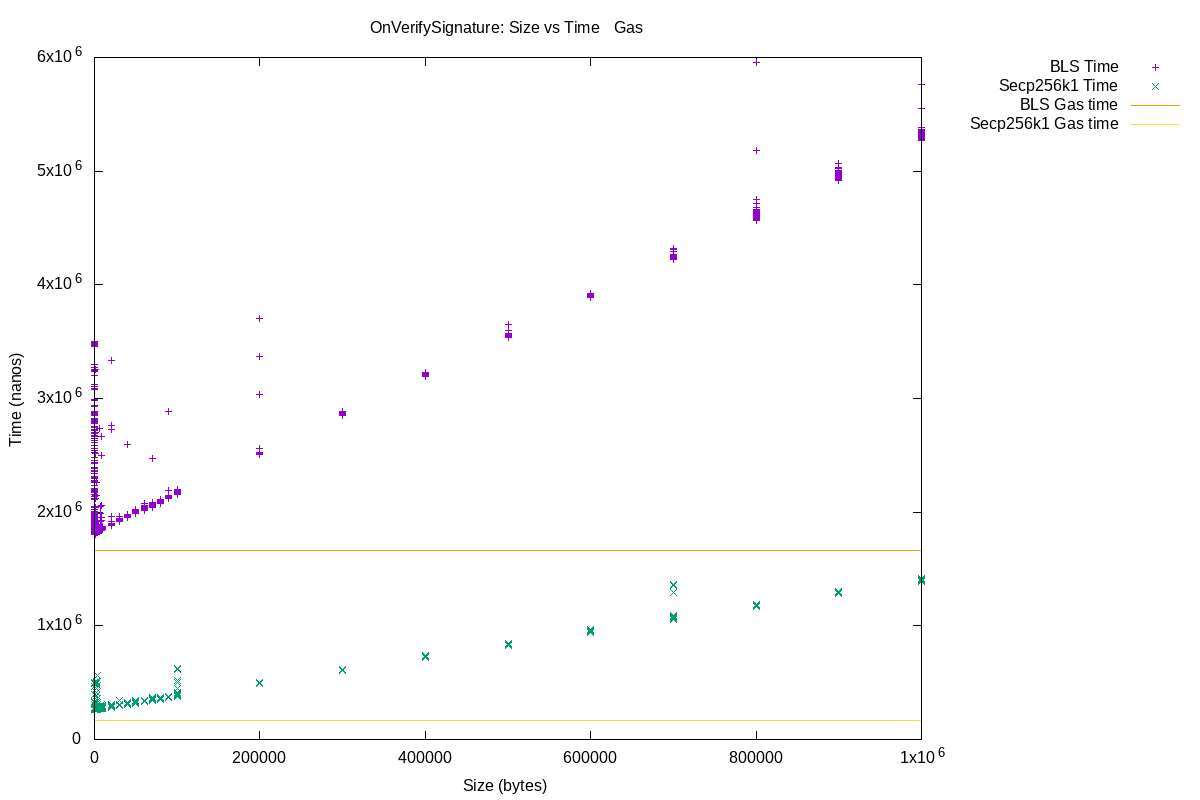
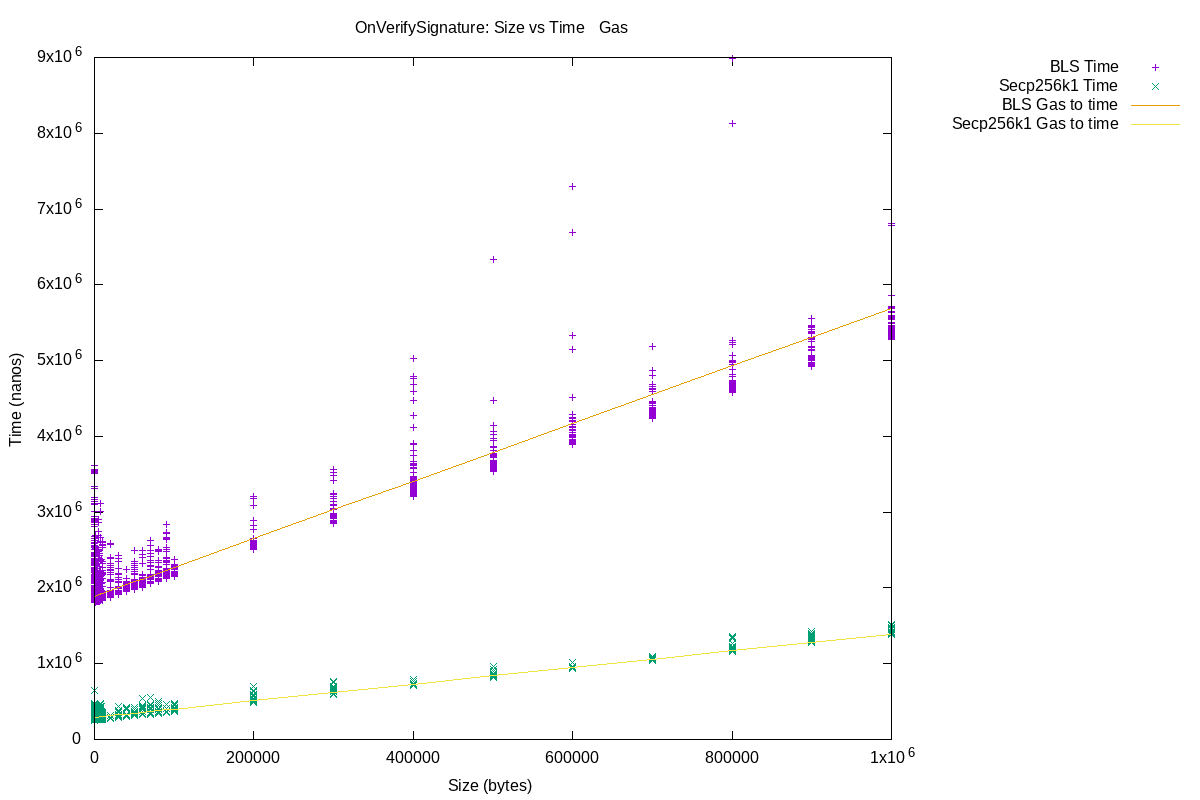
GAS-1279: Update signature verification price formula.

diff --git a/fvm/src/gas/price_list.rs b/fvm/src/gas/price_list.rs
@@ -3,6 +3,7 @@
 // SPDX-License-Identifier: Apache-2.0, MIT
 
 use std::collections::HashMap;
+use std::ops::Mul;
 
 use anyhow::Context;
 use fvm_shared::crypto::signature::SignatureType;
@@ -83,8 +84,8 @@ lazy_static! {
 
         sig_cost: total_enum_map!{
             SignatureType {
-                Secp256k1 => Gas::new(1637292),
-                BLS       => Gas::new(16598605)
+                Secp256k1 => ScalingCost::new(Gas::new(1637292), Gas::zero()),
+                BLS       => ScalingCost::new(Gas::new(16598605), Gas::zero())
             }
         },
 
@@ -229,8 +230,8 @@ lazy_static! {
 
         sig_cost: total_enum_map!{
             SignatureType {
-                Secp256k1 => Gas::new(1637292),
-                BLS       => Gas::new(16598605)
+                Secp256k1 => ScalingCost::new(Gas::new(1637292), Gas::zero()),
+                BLS       => ScalingCost::new(Gas::new(16598605), Gas::zero())
             }
         },
         secp256k1_recover_cost: Gas::new(1637292), // TODO measure & revisit this value
@@ -376,8 +377,8 @@ lazy_static! {
 
         sig_cost: total_enum_map!{
             SignatureType {
-                Secp256k1 => Gas::new(1637292),
-                BLS       => Gas::new(16598605)
+                Secp256k1 => ScalingCost::new(Gas::new(2904469), Gas::new(11)),
+                BLS       => ScalingCost::new(Gas::new(18897169), Gas::new(38))
             }
         },
         secp256k1_recover_cost: Gas::new(2643945),
@@ -518,6 +519,20 @@ pub(crate) struct ScalingCost {
     scale: Gas,
 }
 
+impl ScalingCost {
+    pub fn new(flat: Gas, scale: Gas) -> Self {
+        Self { flat, scale }
+    }
+
+    /// Apply the formula on a scalable value.
+    pub fn apply<V>(&self, value: V) -> Gas
+    where
+        Gas: Mul<V, Output = Gas>,
+    {
+        self.flat + self.scale * value
+    }
+}
+
 #[derive(Clone, Debug, PartialEq, Eq)]
 pub(crate) struct StepCost(Vec<Step>);
 
@@ -598,7 +613,7 @@ pub struct PriceList {
     pub(crate) delete_actor: Gas,
 
     /// Gas cost for verifying a cryptographic signature.
-    pub(crate) sig_cost: HashMap<SignatureType, Gas>,
+    pub(crate) sig_cost: HashMap<SignatureType, ScalingCost>,
 
     /// Gas cost for recovering secp256k1 signer public key
     pub(crate) secp256k1_recover_cost: Gas,
@@ -760,9 +775,10 @@ impl PriceList {
 
     /// Returns gas required for signature verification.
     #[inline]
-    pub fn on_verify_signature(&self, sig_type: SignatureType, _data_len: usize) -> GasCharge {
-        let val = self.sig_cost[&sig_type];
-        GasCharge::new("OnVerifySignature", val, Zero::zero())
+    pub fn on_verify_signature(&self, sig_type: SignatureType, data_len: usize) -> GasCharge {
+        let cost = self.sig_cost[&sig_type];
+        let gas = cost.apply(data_len);
+        GasCharge::new("OnVerifySignature", gas, Zero::zero())
     }
 
     /// Returns gas required for recovering signer pubkey from signature
@@ -860,7 +876,7 @@ impl PriceList {
                 .expect("512MiB lookup must exist in price table")
         });
 
-        let gas_used = cost.flat + cost.scale * info.challenged_sectors.len();
+        let gas_used = cost.apply(info.challenged_sectors.len());
 
         GasCharge::new("OnVerifyPost", gas_used, Zero::zero())
     }
